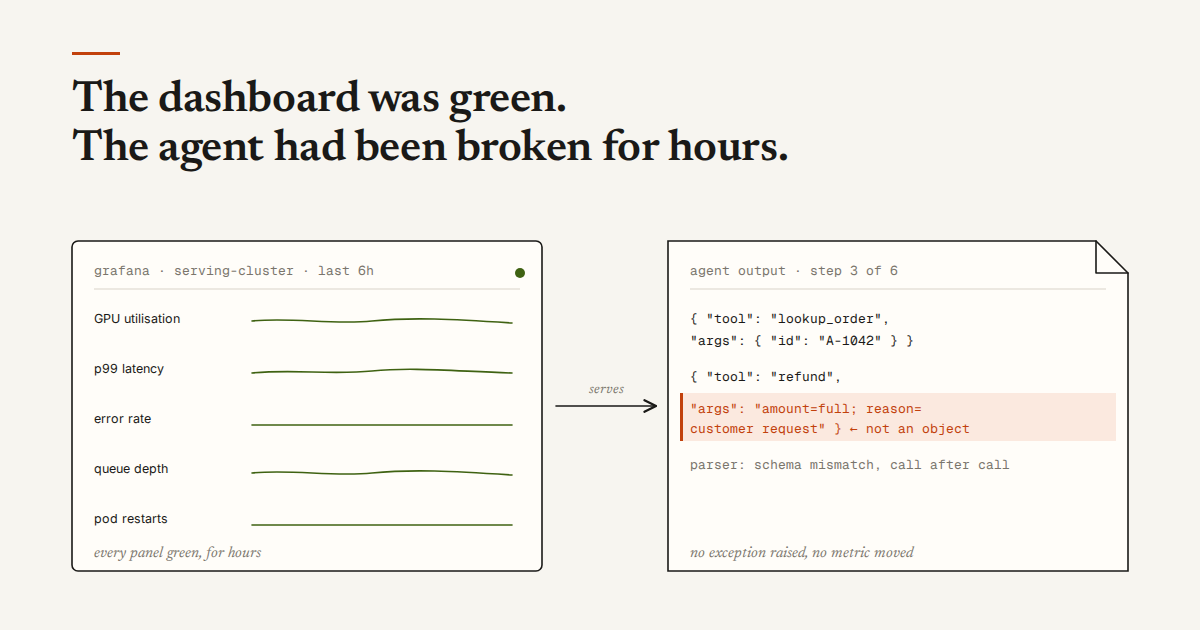
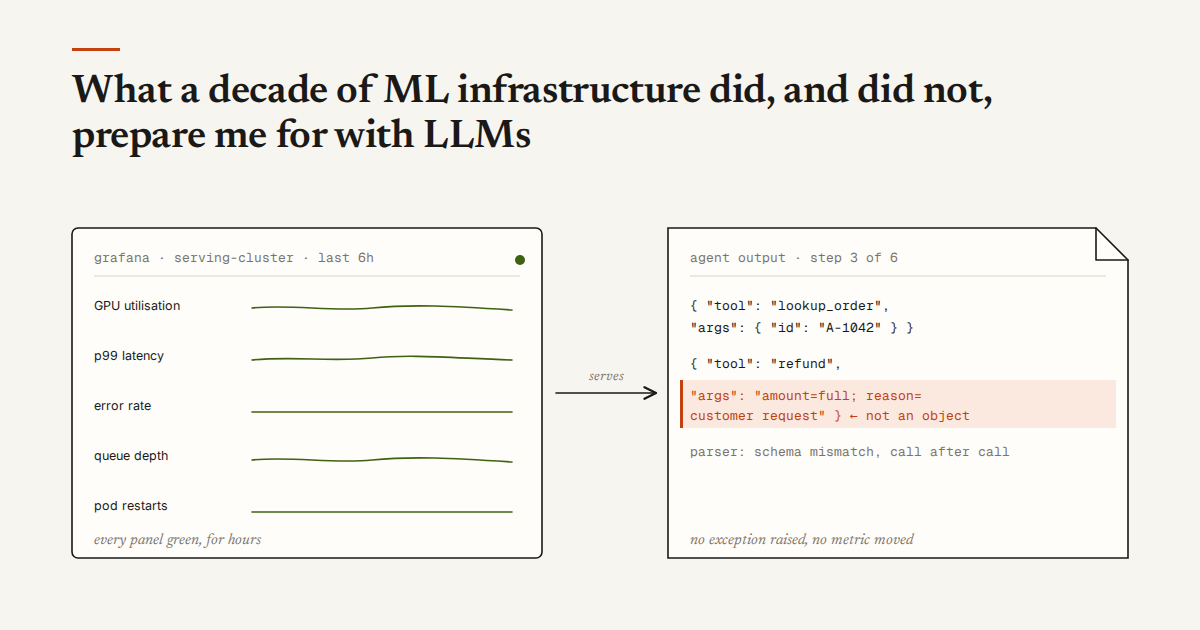
ML-infrastructure post: new title, and review markers that never reach the page

diff --git a/_posts/2026-03-07-what-a-decade-of-ml-infrastructure-taught-me-about-llms.md b/_posts/2026-03-07-what-a-decade-of-ml-infrastructure-taught-me-about-llms.md
@@ -1,11 +1,11 @@
 ---
-title: "The dashboard was green. The agent had been broken for hours."
+title: "What a decade of ML infrastructure did, and did not, prepare me for with LLMs"
 date: 2026-03-07 00:01:00
 og_image: /images/og-green-dashboard.png
 cover: /images/cover-green-dashboard.png
 tags: [llms, mlops, observability, platform engineering, system design]
 toc: true
-description: "Two production incidents where every infrastructure metric stayed healthy while the model layer quietly failed, what I instrumented afterwards, and which classical ML habits transferred to LLM systems and which did not."
+description: "Two production incidents where every infrastructure metric stayed healthy while the model layer quietly failed, and what they showed about which classical ML habits transfer to LLM systems and which do not."
 excerpt_separator: <!--more-->
 ---
 
@@ -20,7 +20,7 @@ I have worked on ML infrastructure for close to a decade: migrating pipelines in
 
 On one engagement the model provider shipped a silent update overnight. Nothing in our system changed. The model's tool-call formatting did, and the first signal we got was the error rate of a downstream parser climbing. Nothing at the model layer reported anything, because from the model layer's point of view nothing was wrong: requests went out, completions came back, latency was normal, no exception was raised anywhere near the model.
 
-<!-- PLACEHOLDER, verify against notes before publishing -->
+{% comment %}PLACEHOLDER, verify against notes before publishing{% endcomment %}
 The errors ran for most of a working day before anyone looked. The alert that finally fired was the parser's own threshold, set at one in twenty requests failing to parse, and it fired hours after the rate had crossed it because the threshold had been chosen for a parser bug, not for a model change.
 
 We found it by reading the parser's failures and working backwards. The fix was small: pin the model to a specific version and upgrade deliberately, with evaluations, the same way we had pinned library versions in every production system for years. The lesson was that a hosted model is a dependency, and an unpinned dependency that changes under you is a class of failure classical ML had already taught me to fear. I had just not filed the model under "dependency".
@@ -29,7 +29,7 @@ We found it by reading the parser's failures and working backwards. The fix was 
 
 The second incident was on a project with a good Prometheus setup. GPU utilisation, memory pressure, queue depth, request rate, latency percentiles, error rate, pod restarts: every panel was green. Underneath it an agent pipeline had been producing malformed output for hours, because a prompt assumption stopped holding after a model update, and not one infrastructure metric moved.
 
-<!-- PLACEHOLDER, verify against notes before publishing -->
+{% comment %}PLACEHOLDER, verify against notes before publishing{% endcomment %}
 It was noticed when a downstream report came out empty and someone read the raw outputs behind it. By then a few thousand requests had gone through, every one of them accepted by the pipeline as a success.
 
 That one changed what I monitor. The infrastructure metrics were still right and still necessary. They answered the question they were built for, whether the serving layer was healthy, and it was. The question nobody had instrumented was whether the model was doing what the application needed. Those two questions had been the same question for most of my career, because a classifier that returns a value is either up or it is not. For an agent they are decoupled, and a healthy cluster can run a broken prompt indefinitely.
@@ -63,7 +63,7 @@ The received wisdom is continuous evaluation, a representative test set run agai
 
 For a small team, evaluation is a handful of golden transcripts, re-run on every prompt change and every model version bump, with the diff read by a person. A prompt is a functional component, and a change to it can alter behaviour as much as a change to a preprocessing function would have. So prompts live in the same repository as the code that calls them, changes are attributed, and the transcripts run before merge, the way unit tests do. Because production usually needs some sampling variability, each transcript is run more than once and the results aggregated rather than treating one sample as the answer.
 
-<!-- PLACEHOLDER, verify against notes before publishing -->
+{% comment %}PLACEHOLDER, verify against notes before publishing{% endcomment %}
 On the systems I run today that is about forty transcripts per system, and the diff turns up something worth reading on roughly one prompt change in five.
 
 That is less than a benchmark suite. It is also honest about what a small team will maintain, and it catches the two failure modes above, because both were a prompt or model change that would have shown up in a re-run transcript before it shipped.
